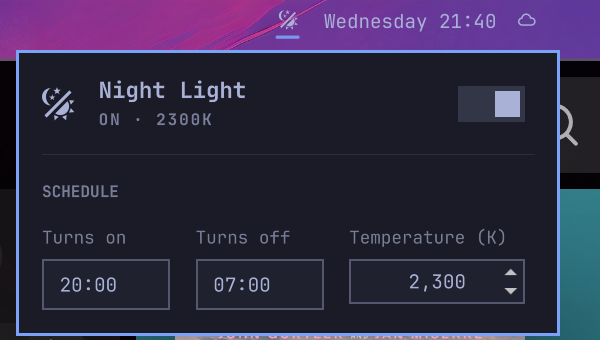
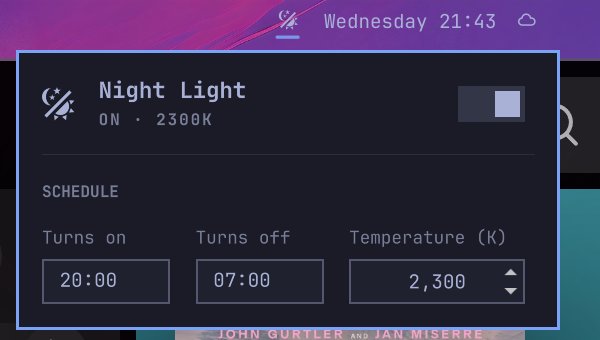
Match time field height to the temperature field

diff --git a/Panel.qml b/Panel.qml
@@ -273,6 +273,7 @@ Panel {
             TextField {
               id: onField
               width: Style.space(80)
+              height: tempField.field.height
               text: root.editOnTime
               foreground: root.foreground
               font.family: root.fontFamily
@@ -296,6 +297,7 @@ Panel {
             TextField {
               id: offField
               width: Style.space(80)
+              height: tempField.field.height
               text: root.editOffTime
               foreground: root.foreground
               font.family: root.fontFamily
